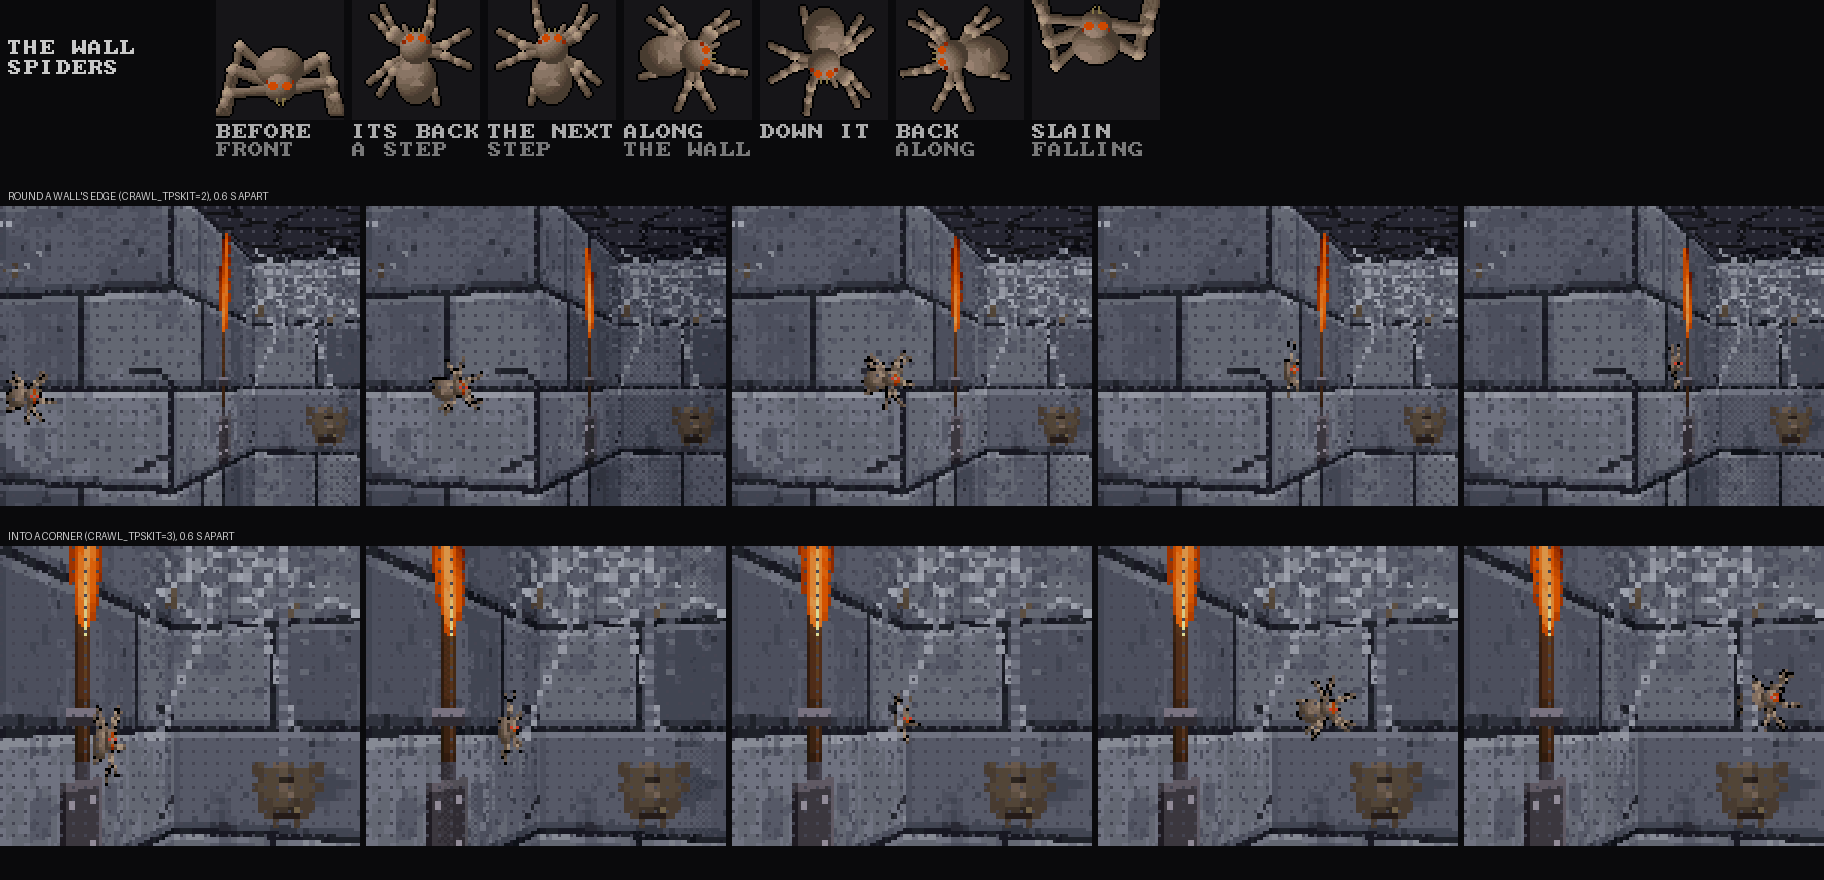
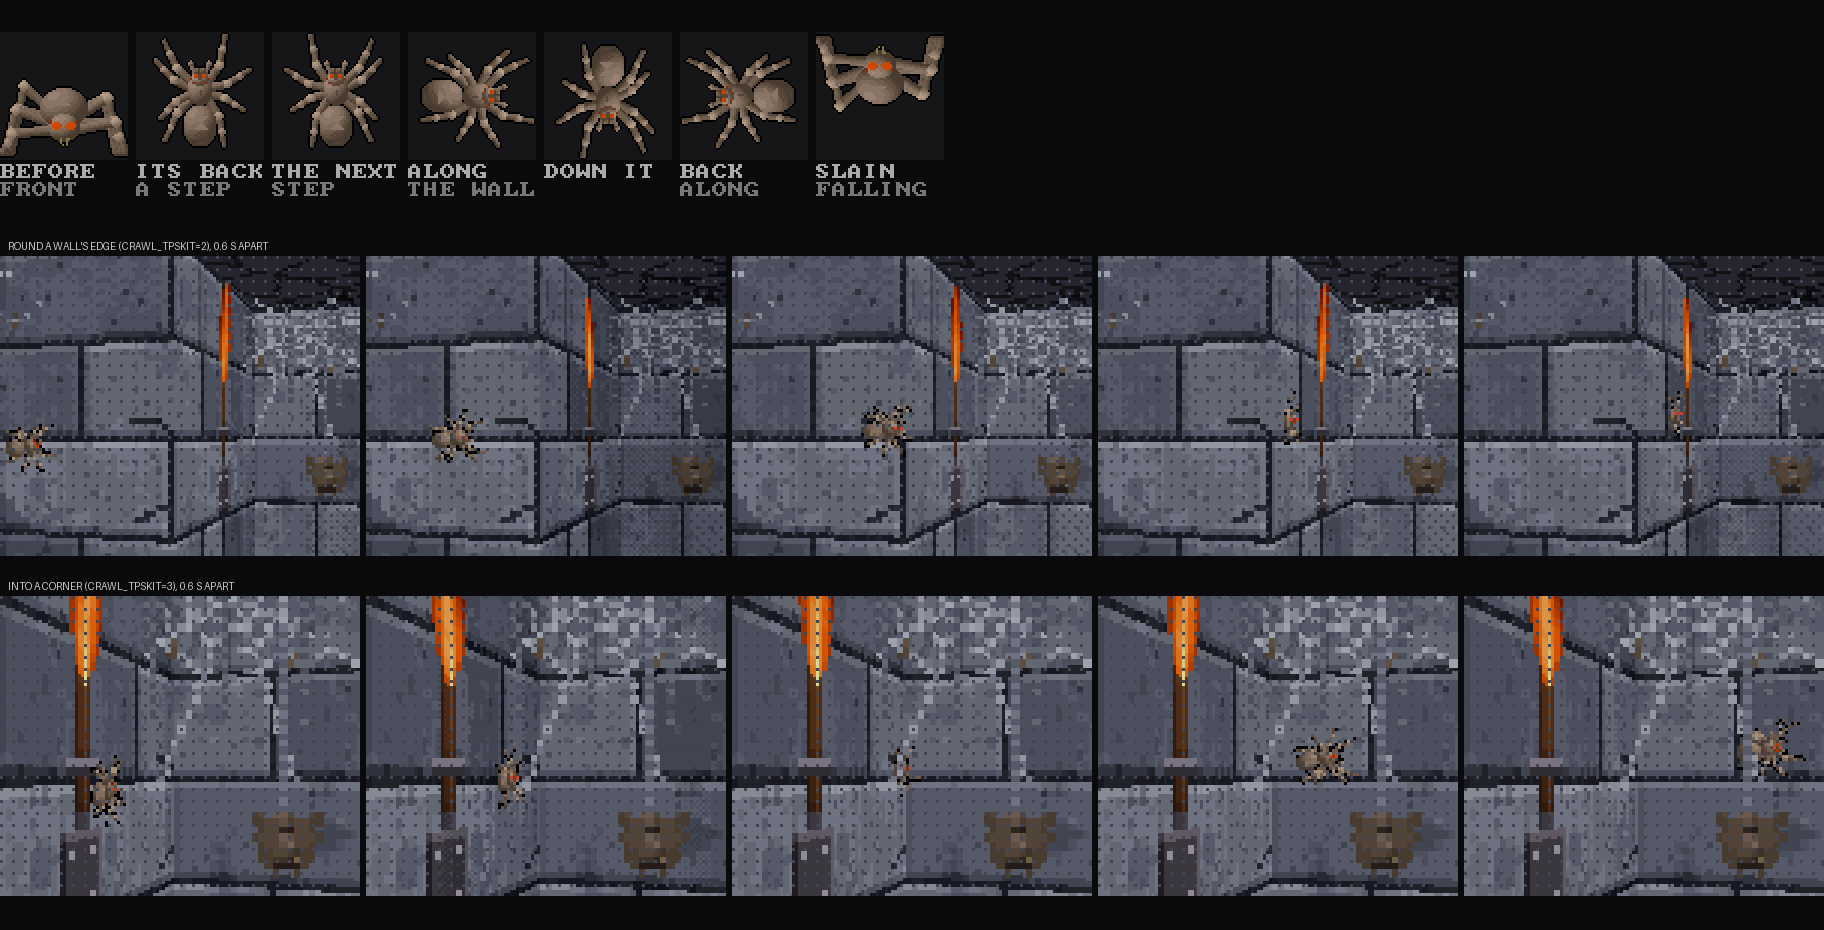
The wall spider's back redrawn: its legs where a spider's are
The owner: "The legs for it are not accurately placed." They had all
come from one point in the middle of the shell, the back pair out from
under the abdomen, all one length and bunched in forks; the eyes too big
and mid-shell. Now the legs come from under the sides of the shell,
front to back: the first two pairs forward, the third out and back, the
fourth back along the abdomen, the first and fourth longest. Each is a
thigh, a shin and a finer foot, banded at the joints. The shell is a
pear with a waist; the eyes a pair at its front edge, the small ones
behind; palps and fangs before them; chevrons down the abdomen.

Art only, harness only: the sheet made again; with the spiders off, 20
frames match the last commit byte for byte; ASan and UBSan clean
drawing both kinds of corner.

Claude-Session: https://claude.ai/code/session_015ifzKtZReYoJ9b9FFFE8iJ

diff --git a/src/art/parts/spiders.c b/src/art/parts/spiders.c
@@ -526,31 +526,56 @@ static void spr_ling(int id, int frame) {
     cv_store(id);
 }
 
-/* the same from above, as one flat on a wall shows itself (docs/PLAN-mice.md, section 8): its head up the picture, its legs spread
- * round it and banded at the knee, the front ones reaching forward and the back ones back, its mother's mark on its back and its
- * eyes at the front of its head. frame: the other step, each side's legs taken in turn */
+/* the same from above, as one flat on a wall shows itself (docs/PLAN-mice.md, section 8): its head up the picture. Its eight legs
+ * come from under the sides of its shell, front to back: the first two pairs reach forward, the third out and back, the fourth back
+ * along its abdomen; the first and fourth longest, the third shortest. Each is a thigh, rising, and the rest of the leg on past the
+ * knee, curling forward in front and back behind, banded pale at the knee and the next joint as its front's are. A pear of a shell
+ * with a waist before the abdomen; its eyes a cluster at the shell's front edge, the fangs and palps before them; its mother's
+ * mark on its back. frame: the other step, each side's legs taken in turn (the first and third of one side with the second and
+ * fourth of the other) */
 static void spr_skit(int id, int frame) {
-    static const float ANG[4] = { 0.62f, 1.18f, 1.86f, 2.45f };    /* each leg's way out, from straight ahead */
+    static const struct { float hy, hx, a1, a2, l1, l2; } LEG[4] = {   /* from under the shell at (32 +- hx, hy); the thigh's way
+                                                                      and the rest's, from straight ahead; their lengths from above */
+        { 25.0f, 4.0f, 0.72f, 0.32f, 10.0f, 15.0f },
+        { 28.0f, 5.0f, 1.22f, 0.88f, 9.0f, 13.0f },
+        { 31.0f, 5.0f, 1.95f, 2.28f, 8.0f, 11.0f },
+        { 33.5f, 4.0f, 2.45f, 2.84f, 10.0f, 15.0f } };
     cv_begin(cv_sprite, TS, TS);
     for (int s = -1; s <= 1; s += 2)
-        for (int l = 0; l < 4; l++) {
+        for (int l = 3; l >= 0; l--) {
             int grp = (l + (s > 0)) & 1;
-            float sw = (frame ? 1.0f : -1.0f) * (grp ? 0.16f : -0.16f), a = ANG[l] + sw, a2 = a + (l < 2 ? -0.3f : 0.3f);
-            float hx = 32 + s * 4.0f * sinf(a), hy = 30 - 4.0f * cosf(a);
-            float kx = 32 + s * 15.0f * sinf(a), ky = 30 - 15.0f * cosf(a), fx = kx + s * 13.0f * sinf(a2), fy = ky - 13.0f * cosf(a2);
-            cv_capsule(hx, hy, kx, ky, 2.2f, R_IRON, 0.05f, 0.4f);
-            cv_capsule(kx, ky, fx, fy, 1.8f, R_IRON, 0.05f, 0.35f);
-            cv_ellipse(kx, ky, 2.5f, 2.5f, R_IRON, 0.35f, 0.6f);   /* a pale band at the knee */
-            cv_ellipse((kx + fx) * 0.5f, (ky + fy) * 0.5f, 2.0f, 2.0f, R_IRON, 0.3f, 0.55f);
+            float sw = (frame ? 1.0f : -1.0f) * (grp ? 0.12f : -0.12f), a1 = LEG[l].a1 + sw, a2 = LEG[l].a2 + sw;
+            float hx = 32 + s * LEG[l].hx, hy = LEG[l].hy;
+            float kx = hx + s * LEG[l].l1 * sinf(a1), ky = hy - LEG[l].l1 * cosf(a1);
+            float fx = kx + s * LEG[l].l2 * sinf(a2), fy = ky - LEG[l].l2 * cosf(a2);
+            float jx = kx + (fx - kx) * 0.55f, jy = ky + (fy - ky) * 0.55f;
+            cv_capsule(hx, hy, kx, ky, 2.1f, R_IRON, 0.05f, 0.4f);    /* the thigh */
+            cv_capsule(kx, ky, jx, jy, 1.7f, R_IRON, 0.05f, 0.38f);   /* the shin */
+            cv_capsule(jx, jy, fx, fy, 1.3f, R_IRON, 0.05f, 0.32f);   /* and the foot, finer */
+            cv_ellipse(kx, ky, 2.3f, 2.3f, R_IRON, 0.35f, 0.6f);   /* pale at the knee */
+            cv_ellipse(jx, jy, 1.8f, 1.8f, R_IRON, 0.3f, 0.55f);   /* and at the next joint */
         }
-    for (int k = -1; k <= 1; k += 2) cv_capsule(32 + k * 3.0f, 23, 32 + k * 6.0f, 17, 1.3f, R_IRON, 0.1f, 0.45f);   /* its palps */
-    cv_ellipse(32, 44, 10, 12, R_IRON, 0.06f, 0.45f);              /* its back */
-    for (int k = 0; k < 7; k++) { int w = k < 3 ? 3 - k : k - 3; for (int q = -w; q <= w; q++) cv_px(32 + q, 40 + k, (uint8_t)(R_BLOOD + 8)); }   /* its mother's mark */
-    cv_ellipse(32, 28, 8, 8, R_IRON, 0.08f, 0.5f);                 /* its head and the shell over it */
+    for (int k = -1; k <= 1; k += 2) {                             /* its palps: little legs before the fangs, clubbed */
+        cv_capsule(32 + k * 2.5f, 21.5f, 32 + k * 4.5f, 16.5f, 1.1f, R_IRON, 0.1f, 0.45f);
+        cv_ellipse(32 + k * 4.8f, 15.8f, 1.4f, 1.4f, R_IRON, 0.2f, 0.5f);
+    }
+    cv_ellipse(32, 47, 8.5f, 10.5f, R_IRON, 0.06f, 0.45f);         /* its abdomen, behind the waist */
+    for (int k = 0; k < 7; k++) { int w = k < 3 ? 3 - k : k - 3; for (int q = -w; q <= w; q++) cv_px(32 + q, 42 + k, (uint8_t)(R_BLOOD + 8)); }   /* its mother's mark */
+    for (int k = 0; k < 3; k++)                                    /* and the chevrons down its back behind it */
+        for (int q = -(3 - k); q <= 3 - k; q++) cv_px(32 + q, 51 + k * 2 + abs(q) / 2 - (3 - k) / 2, sh(R_IRON, 0.14f));
+    cv_ellipse(32, 29, 6.5f, 8.0f, R_IRON, 0.08f, 0.5f);           /* its shell, over the legs' roots */
+    cv_ellipse(32, 23.5f, 4.6f, 3.2f, R_IRON, 0.14f, 0.55f);       /* the head's end of it, narrower */
+    for (int k = 0; k < 3; k++) cv_px(32, 29 + k, sh(R_IRON, 0.12f));   /* the groove at its middle */
+    for (int k = 20; k <= 23; k++) { cv_px(31, k, sh(R_IRON, 0.1f)); cv_px(32, k, sh(R_IRON, 0.1f)); }   /* the seam between its eyes */
     for (int k = -1; k <= 1; k += 2) {
-        cv_flat(32 + k * 3.0f, 23, 2.0f, 2.0f, (uint8_t)(R_FLAME + 5)); cv_eye_mark((int)(32 + k * 3.0f), 23);
-        cv_flat(32 + k * 6.0f, 25, 1.0f, 1.0f, (uint8_t)(R_FLAME + 2));
-        cv_line(32 + k * 1.5f, 20, 32 + k * 1.5f, 18, sh(R_BONE, 0.45f));   /* fang tips */
+        cv_ellipse(32 + k * 1.6f, 19.6f, 1.4f, 1.8f, R_IRON, 0.05f, 0.3f);   /* the fangs' roots, before the shell */
+        cv_px((int)(32 + k * 1.6f), 18, sh(R_BONE, 0.45f));        /* and their tips */
+        int ex = k < 0 ? 29 : 33;                                  /* its great eyes, a dark seam between them */
+        cv_px(ex, 21, (uint8_t)(R_FLAME + 5)); cv_px(ex + 1, 21, (uint8_t)(R_FLAME + 5));
+        cv_px(ex, 22, (uint8_t)(R_FLAME + 4)); cv_px(ex + 1, 22, (uint8_t)(R_FLAME + 4));
+        cv_eye_mark(ex + (k > 0), 21);
+        cv_px(k < 0 ? 27 : 36, 23, (uint8_t)(R_FLAME + 2));        /* and the small ones, out at the sides and behind */
+        cv_px(k < 0 ? 29 : 34, 25, (uint8_t)(R_FLAME + 2));
     }
     cv_outline(0);
     cv_store(id);

diff --git a/docs/PLAN-mice.md b/docs/PLAN-mice.md
@@ -181,7 +181,13 @@ a joint is drawn on the next face, folded into the corner or round the wall's ed
 drawn by the eye pass's own code (`eyes_put`, cut from `render_eyes`, which keeps the billboards' part). The picture is new: the
 spiderling from above, its own legs, shell, mark and eyes (`spr_skit`, in `parts/spiders.c`). It is the last row of `make sheets`'
 `mice`, and is kept with frames of one going round each kind of corner as `media/sheets/mice/wallspiders.png`. It went in
-before the owner had seen it, since the fix needed it; it is theirs to pass or change.
+before the owner had seen it, since the fix needed it. The owner's word on it: "The legs for it are not accurately placed." They had
+all come from one point in the middle of the shell, like a star, the back pair out from under the abdomen, all one length and
+bunched in forks, the eyes too big and mid-shell. Redrawn as a spider is made: the legs from under the sides of the shell, front to
+back, the first two pairs forward, the third out and back, the fourth back along the abdomen, the first and fourth longest and the
+third shortest; each a thigh, a shin and a finer foot, banded at the knee and the next joint, curling forward in front and back
+behind; a pear of a shell with a waist, the eyes a pair with a seam between at its front edge and the small ones behind, the palps
+and fangs before them, chevrons down the abdomen behind the mark. The sheet was made again from it.
 
 ## 9. Hand-off log
 
